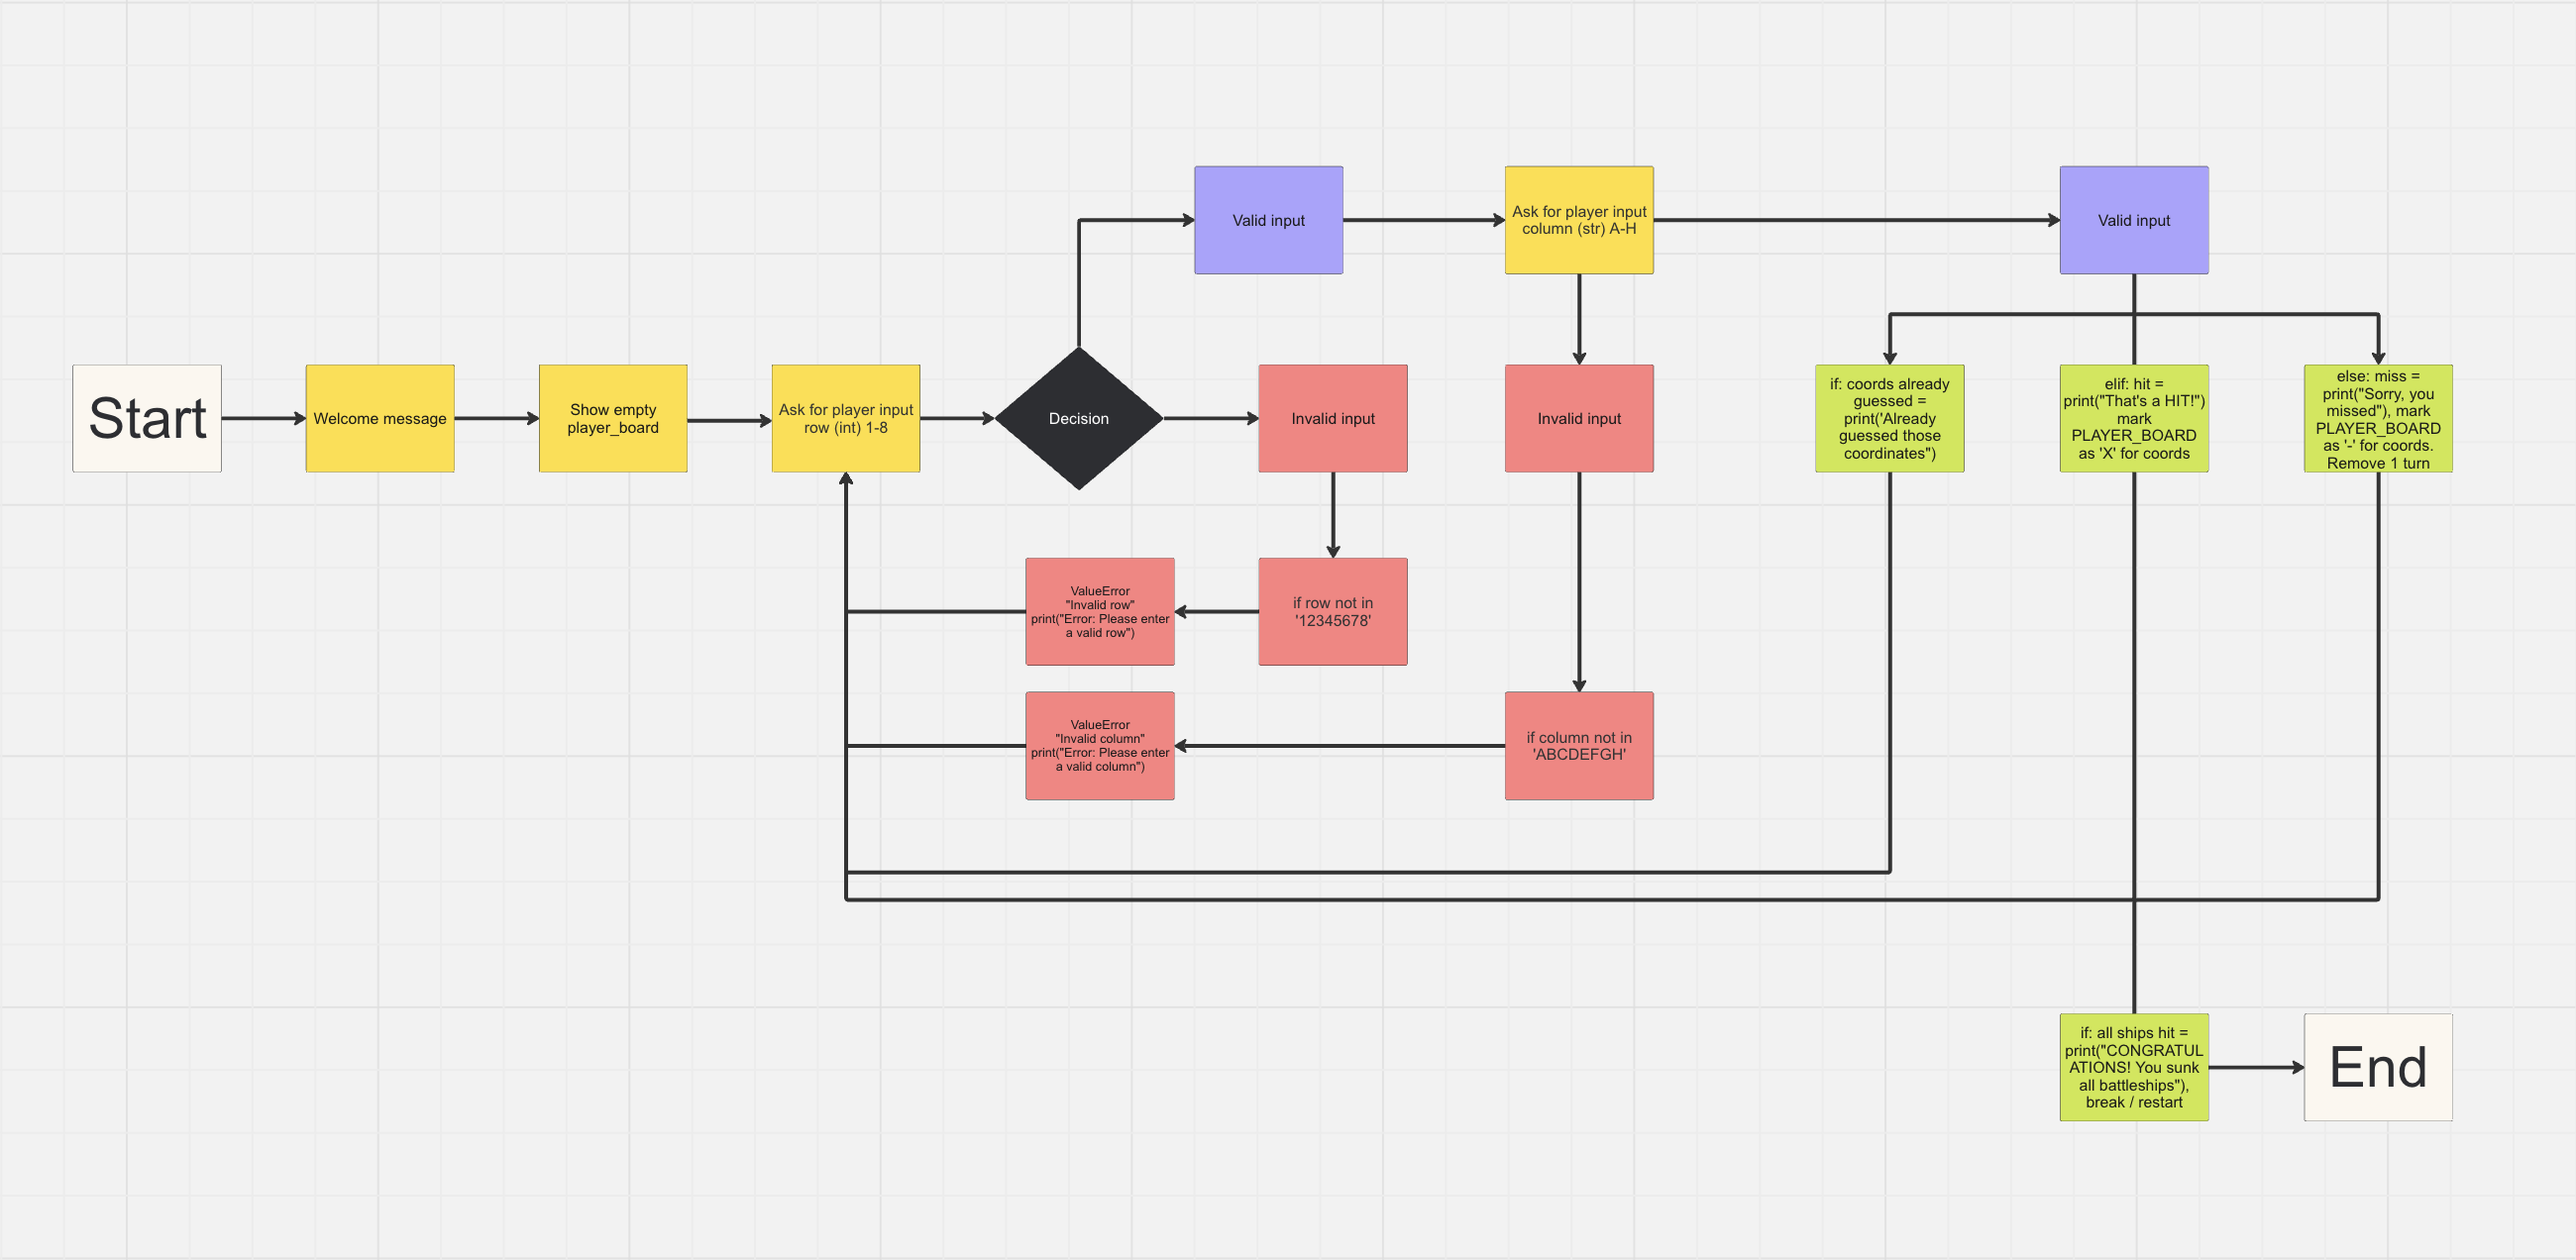
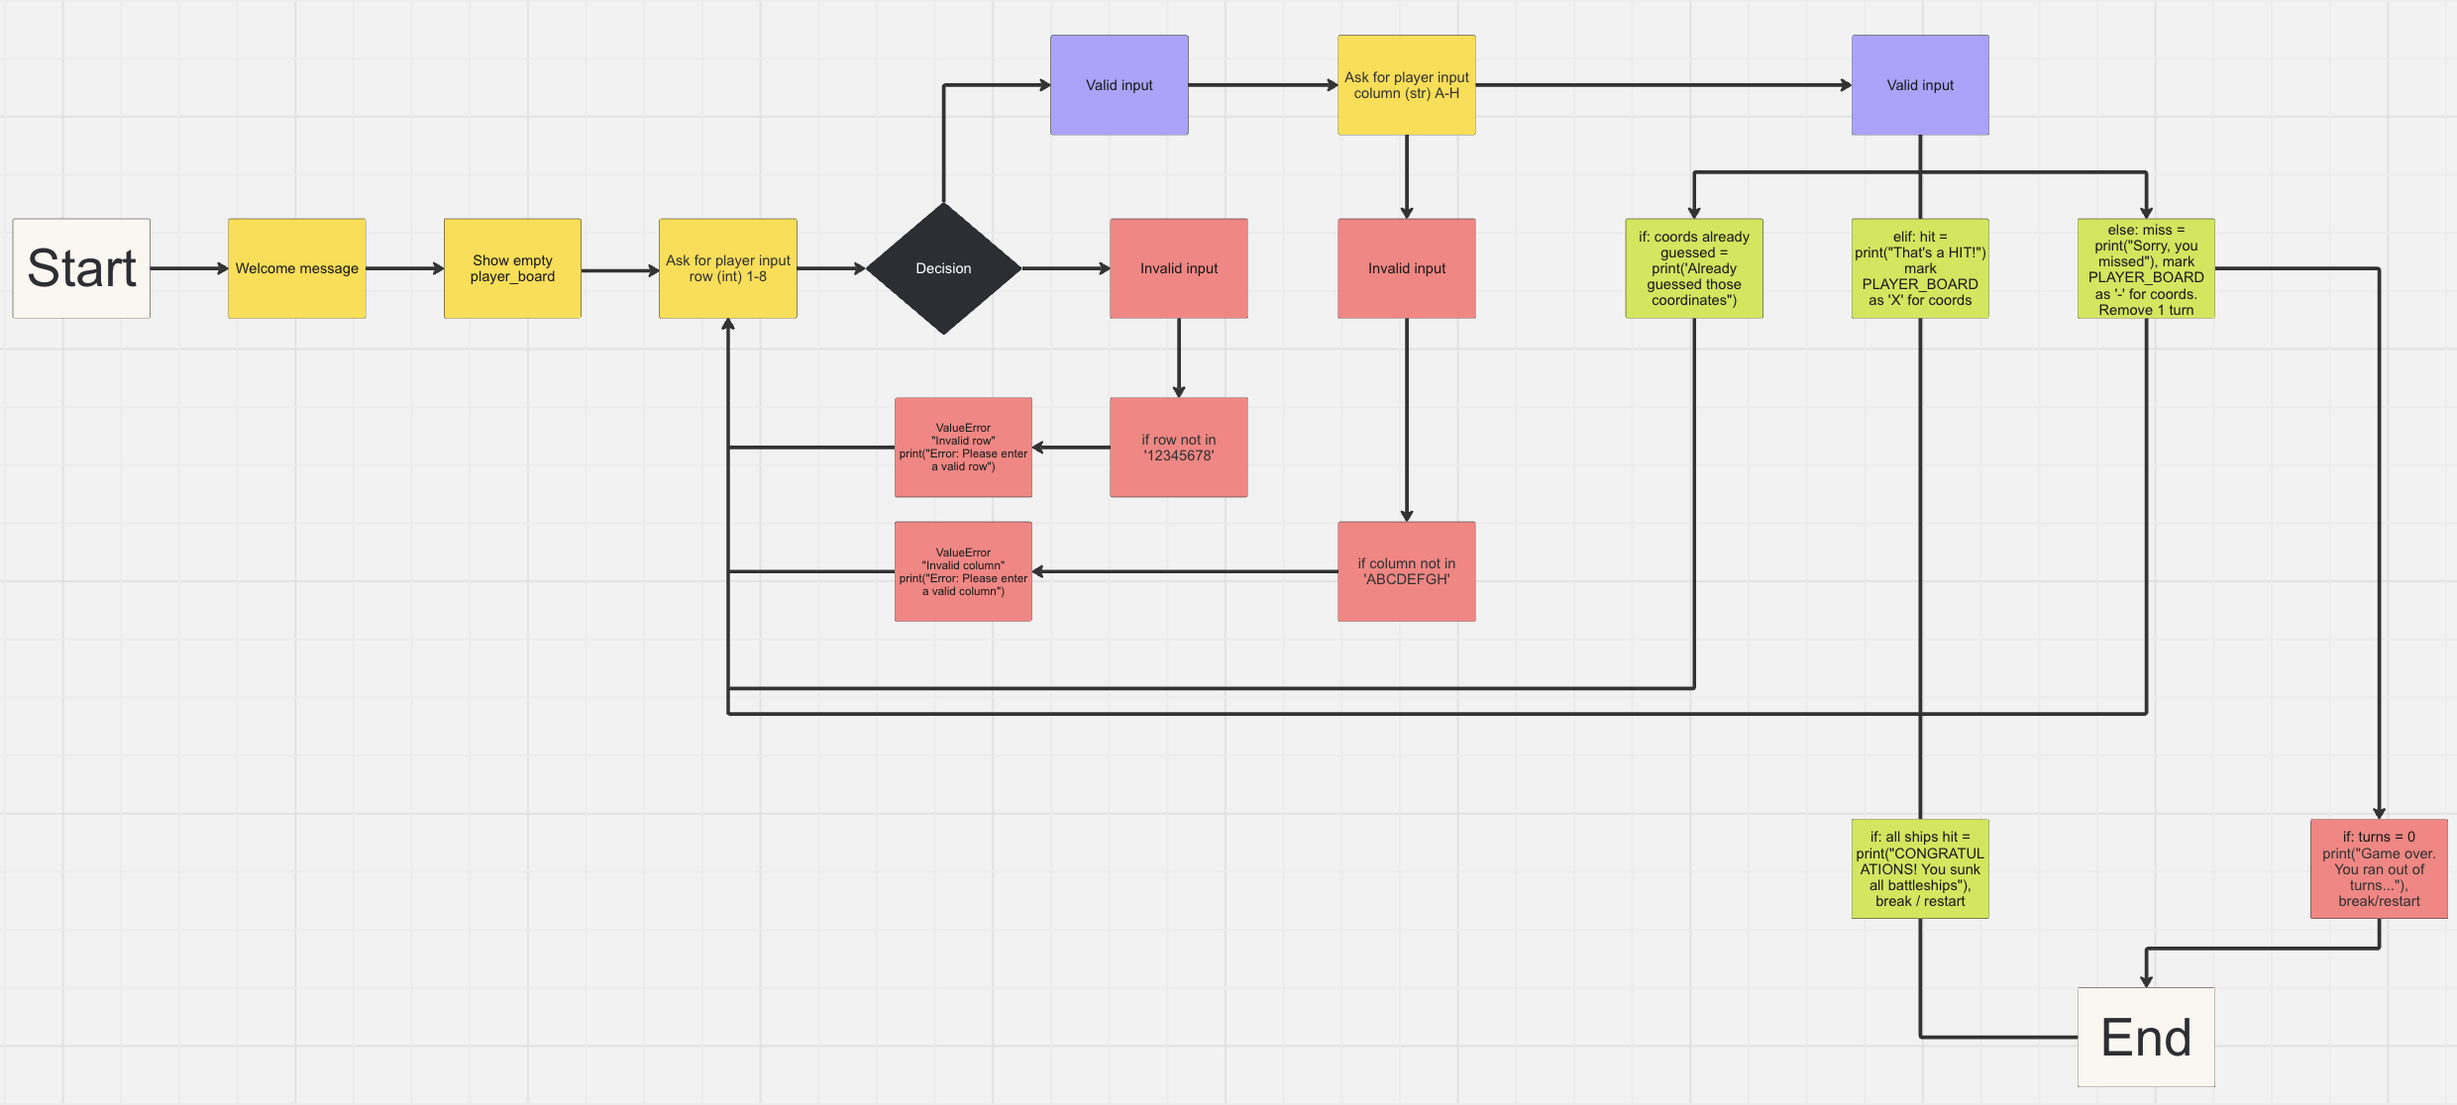
Update flowchart logic image in documentation

Changed region(s): [[0.0, 0.0305, 1.0, 0.9749]]

diff --git a/README.md b/README.md
@@ -95,6 +95,11 @@ If I had more time, some future features that would be a good addition to the ga
 - Add formatting of 'X' marker for hits as red.
 - Add functionality to to quit the game during play.
 
+## Flowchart
+
+![Flowchart]()
+The flowchart represents the logic of the application, and the steps taken in each instance when an input is prompted and/or made.
+
 ## Technologies
 
 ### Languages
